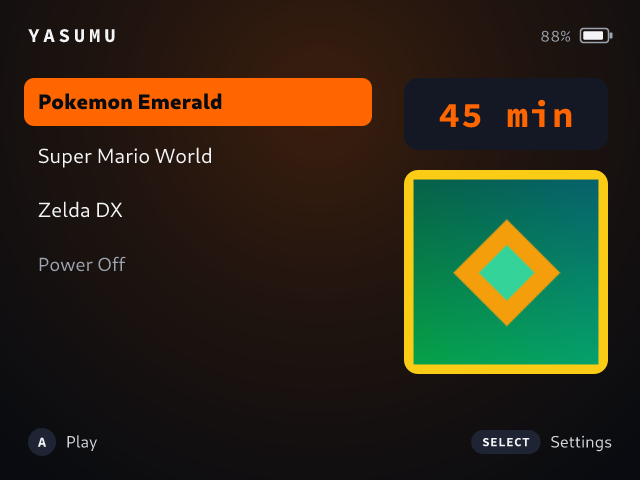
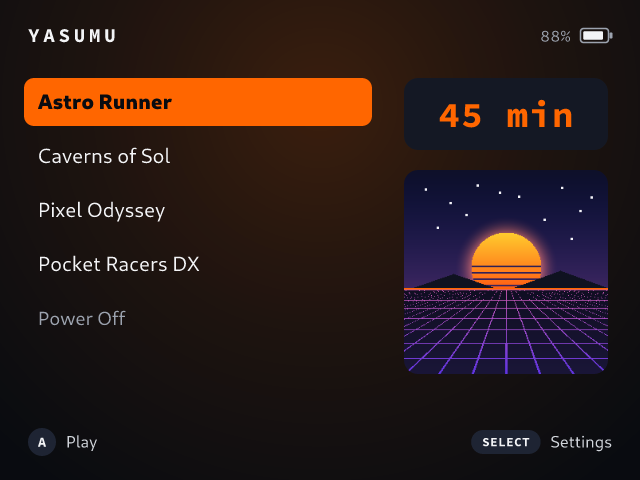
Update showcase screenshots with original titles and sample usage stats

diff --git a/src/portal/mod.rs b/src/portal/mod.rs
@@ -238,6 +238,7 @@ pub fn build_portal_router(ctx: SharedCtx) -> Router {
         .route("/api/exit-muos", post(handle_exit_muos))
         .route("/api/poweroff", post(handle_poweroff))
         .route("/api/uninstall", post(handle_uninstall))
+        .route("/api/dev/seed-stats", post(handle_dev_seed_stats))
         .fallback(handle_captive_redirect)
         .with_state(ctx)
 }
@@ -536,5 +537,32 @@ async fn handle_uninstall(
         });
     }
     Ok(Json(serde_json::json!({ "ok": true })))
+}
+
+#[derive(Deserialize)]
+struct DevSeedStatsRequest {
+    played_seconds_today: u64,
+    history: std::collections::BTreeMap<String, u64>,
+    game_play_seconds: std::collections::BTreeMap<String, u64>,
+}
+
+async fn handle_dev_seed_stats(
+    State(ctx): State<SharedCtx>,
+    Json(req): Json<DevSeedStatsRequest>,
+) -> Result<Json<PortalStateResponse>, (StatusCode, String)> {
+    let mut guard = ctx.lock().unwrap();
+    if !guard.dev_mode {
+        return Err((StatusCode::FORBIDDEN, "dev mode only".to_string()));
+    }
+    let local = guard.time.local_now(&guard.store.config.timezone);
+    guard.store.usage.current_date = local.date_str.clone();
+    guard.store.usage.played_seconds_today = req.played_seconds_today;
+    guard.store.usage.history = req.history;
+    guard.store.usage.game_play_seconds = req.game_play_seconds;
+    guard
+        .store
+        .save_usage(local.epoch_secs)
+        .map_err(|e| (StatusCode::INTERNAL_SERVER_ERROR, e.to_string()))?;
+    Ok(Json(guard.build_portal_state()))
 }
 
